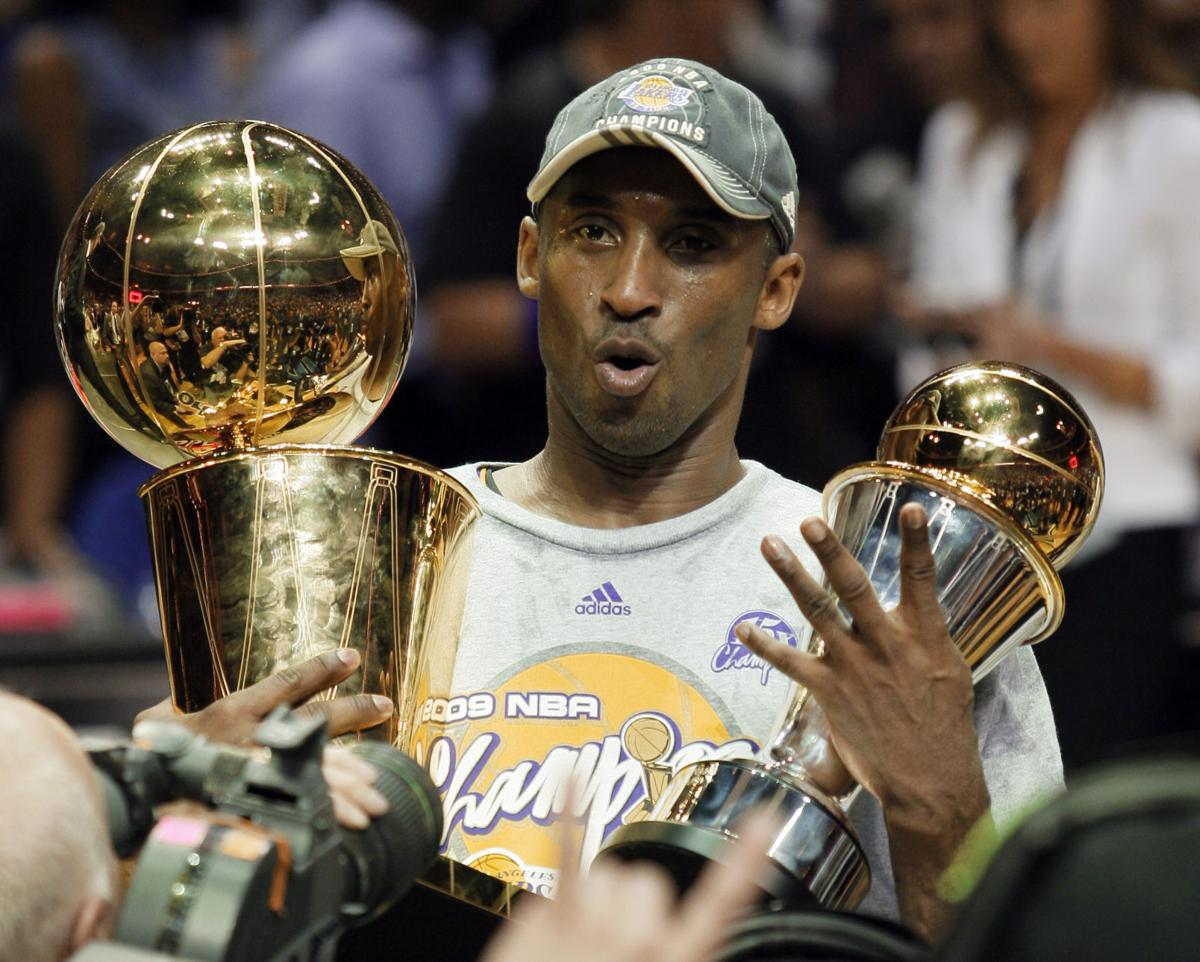
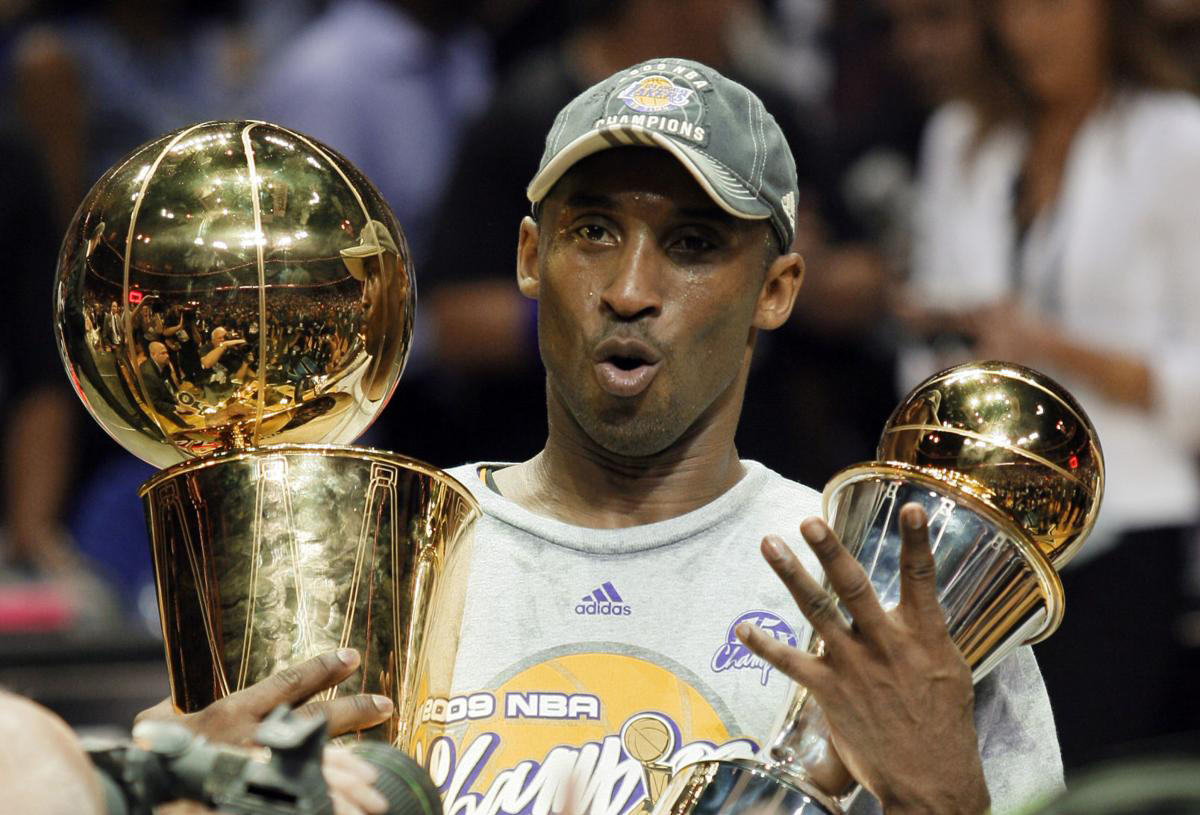
figuring out the grid more

diff --git a/css/commit.css b/css/commit.css
@@ -70,8 +70,8 @@ h1{
 
 .photos{
     display:grid;
-    grid-template-columns: 15% 30% 10% 30% 15%;
-    grid-template-rows: 40% 60%;
+    grid-template-columns: 10% 35% 10% 35% 10%;
+    grid-template-rows: 50% 50%;
 }
 
 #happyKobe{
@@ -79,7 +79,8 @@ h1{
     grid-column-end: 3;
     grid-row-start: 1;
     grid-row-end: 2;
-    width:30%;
+    width:90%;
+    margin:5%;
 }
 
 #dunkingKobe{
@@ -87,7 +88,8 @@ h1{
     grid-column-end: 5;
     grid-row-start: 1;
     grid-row-end: 2;
-    width:30%;
+    width:90%;
+    margin:5%;
 }
 
 #funnyKobe{
@@ -95,7 +97,8 @@ h1{
     grid-column-end: 3;
     grid-row-start: 2;
     grid-row-end: 3;
-    width:30%;
+    width:90%;
+    margin:5%;
 }
 
 #winningKobe{
@@ -103,5 +106,6 @@ h1{
     grid-column-end: 5;
     grid-row-start: 2;
     grid-row-end: 3;
-    width:30%;
+    width:90%;
+    margin:5%;
 }
